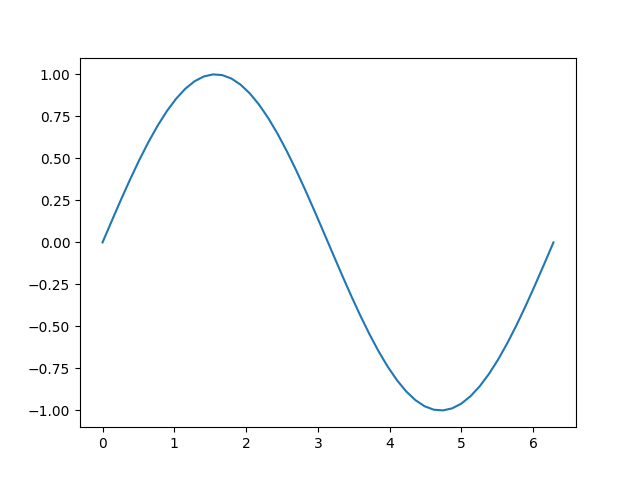
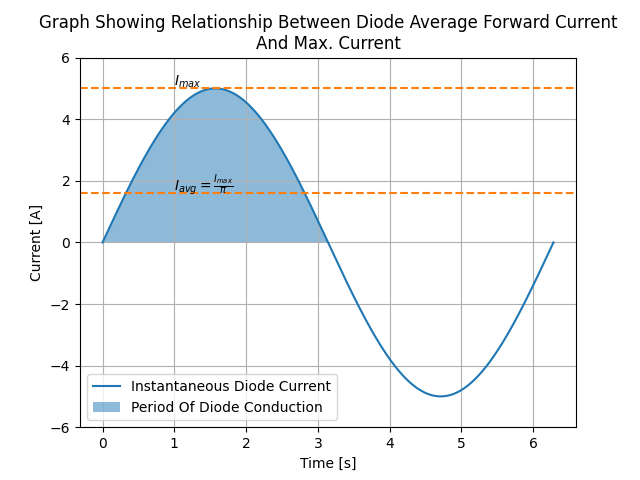
Added a photo of a Traco PSU.

diff --git a/content/electronics/components/diodes/general-purpose-diodes/main.py b/content/electronics/components/diodes/general-purpose-diodes/main.py
@@ -6,11 +6,26 @@ from pathlib import Path
 def main():
     script_dir = Path(os.path.dirname(os.path.realpath(__file__)))
 
-    t = np.linspace(0, np.pi*2)
+    t = np.linspace(0, np.pi*2, num=500)
     i_max_A = 5
     y = i_max_A * np.sin(t)
     fig, ax = plt.subplots()
-    ax.plot(t, y)
+    ax.plot(t, y, label='Instantaneous Diode Current')
+    bool_filter = y >= 0
+    ax.fill_between(t[bool_filter], y[bool_filter], alpha=0.5, label='Period Of Diode Conduction')
+
+    # Draw horizontal lines at max. and average current
+    ax.axhline(y=i_max_A, c='C1', ls='--')
+    ax.text(x=1, y=i_max_A + 0.1, s='$I_{max}$')
+    avg_i_A = i_max_A/np.pi
+    ax.axhline(y=avg_i_A, c='C1', ls='--')
+    ax.text(x=1, y=avg_i_A + 0.1, s='$I_{avg} = \\frac{I_{max}}{\pi}$')
+    ax.grid()
+    ax.set_ylim(-6, 6)
+    ax.set_xlabel('Time [s]')
+    ax.set_ylabel('Current [A]')
+    ax.set_title('Graph Showing Relationship Between Diode Average Forward Current\nAnd Max. Current')
+    ax.legend()
     plt.savefig(script_dir / 'avg-rectified-forward-current-plot.png')
 
 if __name__ == '__main__':
